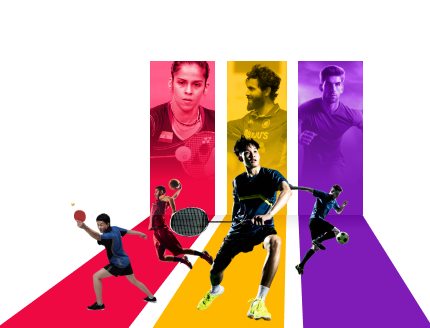
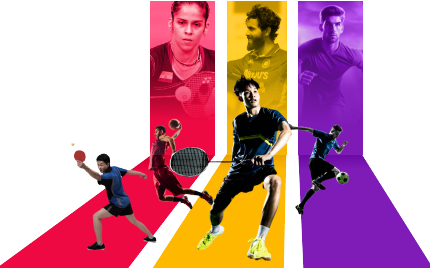
Added desktop view for hero

diff --git a/src/pages/HeroPage/HeroPage.jsx b/src/pages/HeroPage/HeroPage.jsx
@@ -1,26 +1,25 @@
-import Navbar from "../../Components/Navbar/navbar";
 import "./HeroPage.css";
-import BGImage from "../../assets/effect.png";
-import CenterBGI from "../../assets/Back_4.png";
-import LeftBGI from "../../assets/Back_2.png";
+import CenterBGI from "../../assets/Back_1.png";
+import LeftBGI from "../../assets/left_home.png";
 import RightBGI from "../../assets/Back_3.png";
 
 const HeroPage = () => {
   return (
     <>
-      <Navbar />
-      <div className="main">
-        <div className="container">
-          <img src={BGImage} alt="BGImage"></img>
-          <div className="back-right">
-            <img src={LeftBGI} alt="LeftBGI"></img>
-          </div>
-          <div className="back-center">
-            <img src={CenterBGI} alt="BGCenter"></img>
-          </div>
-          <div className="back-left">
-            <img src={RightBGI} alt="RightBGI"></img>
-          </div>
+      <div className="logo">
+        
+      </div>
+      {/* DO NOT TOUCH */}
+      <div className="main-container">
+        <div className="left-container">
+        <img src={LeftBGI} alt="" className="left"/>
+        <button title='Register' className='primary' >Register</button>
+        </div>
+        <div className="center-container">
+        <img src={CenterBGI} alt="" className="center"/>
+        </div>
+        <div className="right-container">
+        <img src={RightBGI} alt="" className="right"/>
         </div>
       </div>
     </>

diff --git a/src/pages/HeroPage/HeroPage.css b/src/pages/HeroPage/HeroPage.css
@@ -1,32 +1,43 @@
-.main {
-    background-color: #fff;
+.logo {
+    height: 170px;
+}
+
+.main-container{
+    display: grid;
+    grid-template-columns: repeat(12, 1fr);
+    grid-template-rows: repeat(12, 1fr);
+    position: relative;
+    width: 100vw;
     height: 100vh;
-    background-repeat: repeat;
-    max-width: 100%;
-}
-.container {
-    display: flex;
-    flex-direction: row;
-    align-items: center;
-    justify-content: center;
-    max-width: 100%;
 }
 
-.container .back-right, .back-center, .back-left {
-    display: flex;
-    position: absolute;
-    flex-direction: row;
-    
+.left{
+    width: 40vw;
 }
 
-.container .back-center img {
-    width: 60vw;
-    height: 90vh;
-    margin-top: 27rem;
-    display: flex;
+.left-container {
+    grid-column: 2 / span 4;
+    grid-row: 1/span 2 ;
 }
 
-/* .container .back-right img {
-    display: flex;
-    flex-direction: row;
-} */
+.center {
+    width: 67vw;
+}
+
+.center-container {
+    grid-column: 4 / span 8;
+    grid-row: 1 / span 6;
+}
+
+.right{
+    width:8vw;
+}
+
+.right-container {
+    grid-column: 11 / span 8;
+    grid-row: 1/ span 2;
+}
+
+.primary {
+    background-color: #ee0942;
+}   

diff --git a/src/App.jsx b/src/App.jsx
@@ -2,14 +2,15 @@
 import './App.css'
 import SportsSection from './Components/Sports_section/Sports_section'
 import HeroPage from './pages/HeroPage/HeroPage'
-
+import Navbar from './Components/Navbar/navbar'
 function App() {
 
   return (
     <>
+    <div className="background-container">
+      <Navbar />   
     <HeroPage />
-       <SportsSection/>
-   
+    </div> 
     </>
   )
 }

diff --git a/src/App.css b/src/App.css
@@ -18,3 +18,14 @@
     padding: 0;
     box-sizing: border-box;
 }
+
+.background-container{
+    background-color: white;
+    width: 100vw;
+    height: 100vh;
+    background-image: url('./assets/effect.png');
+    /* background-repeat: repeat;
+    background-size: cover;
+    background-attachment: fixed; */
+
+}
